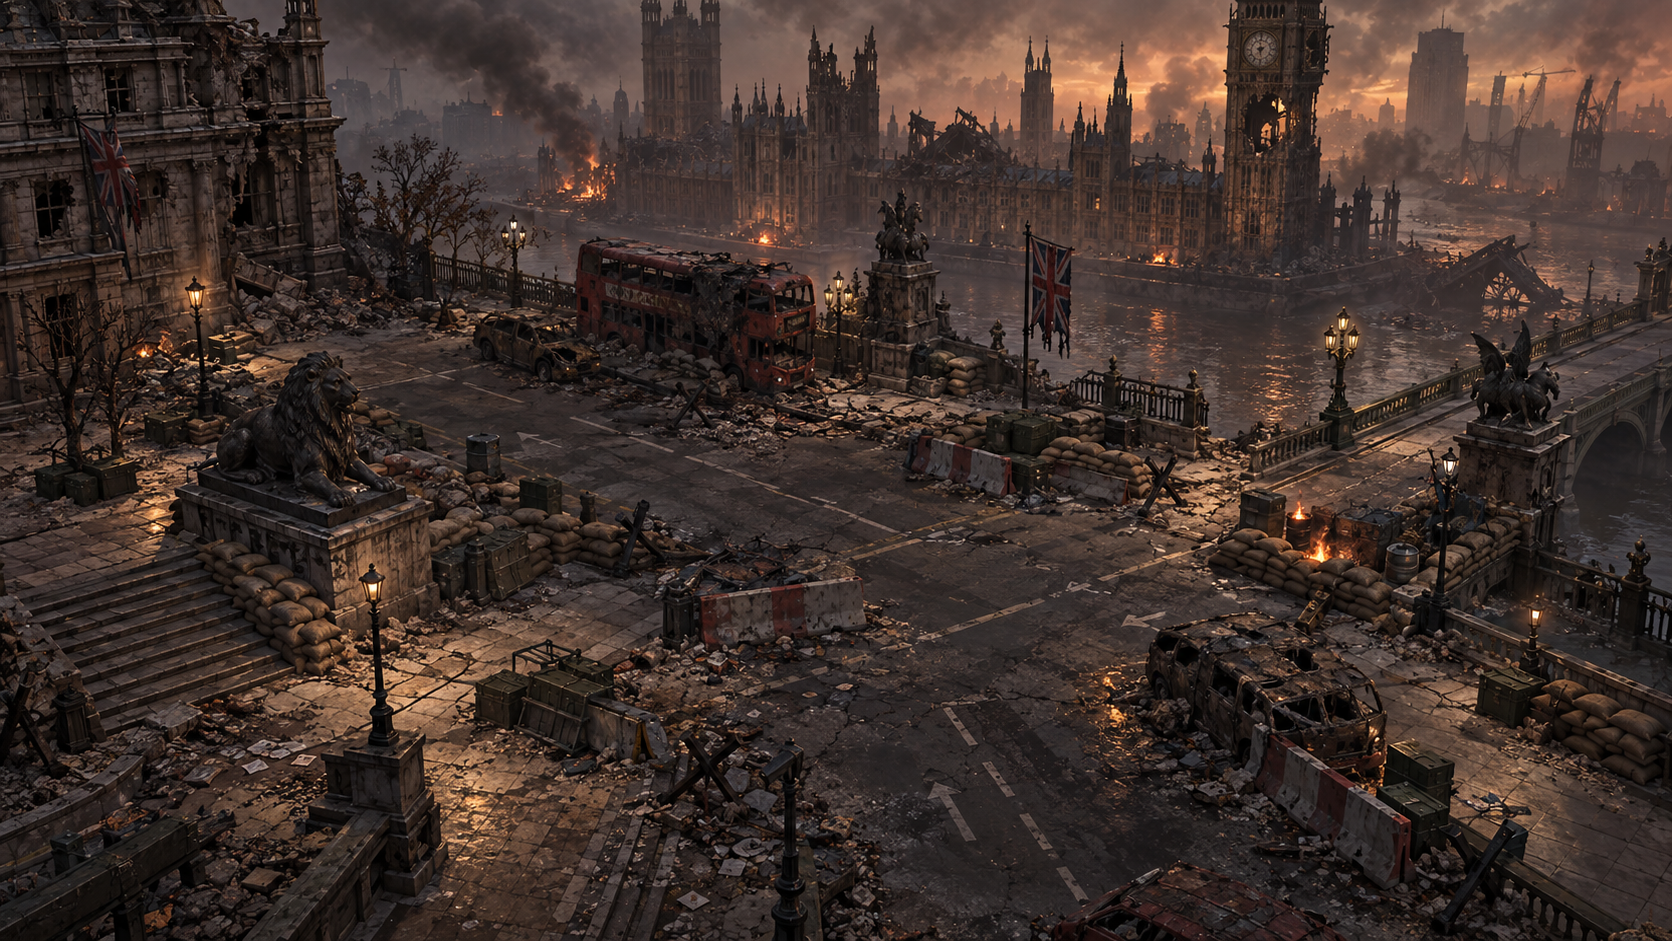
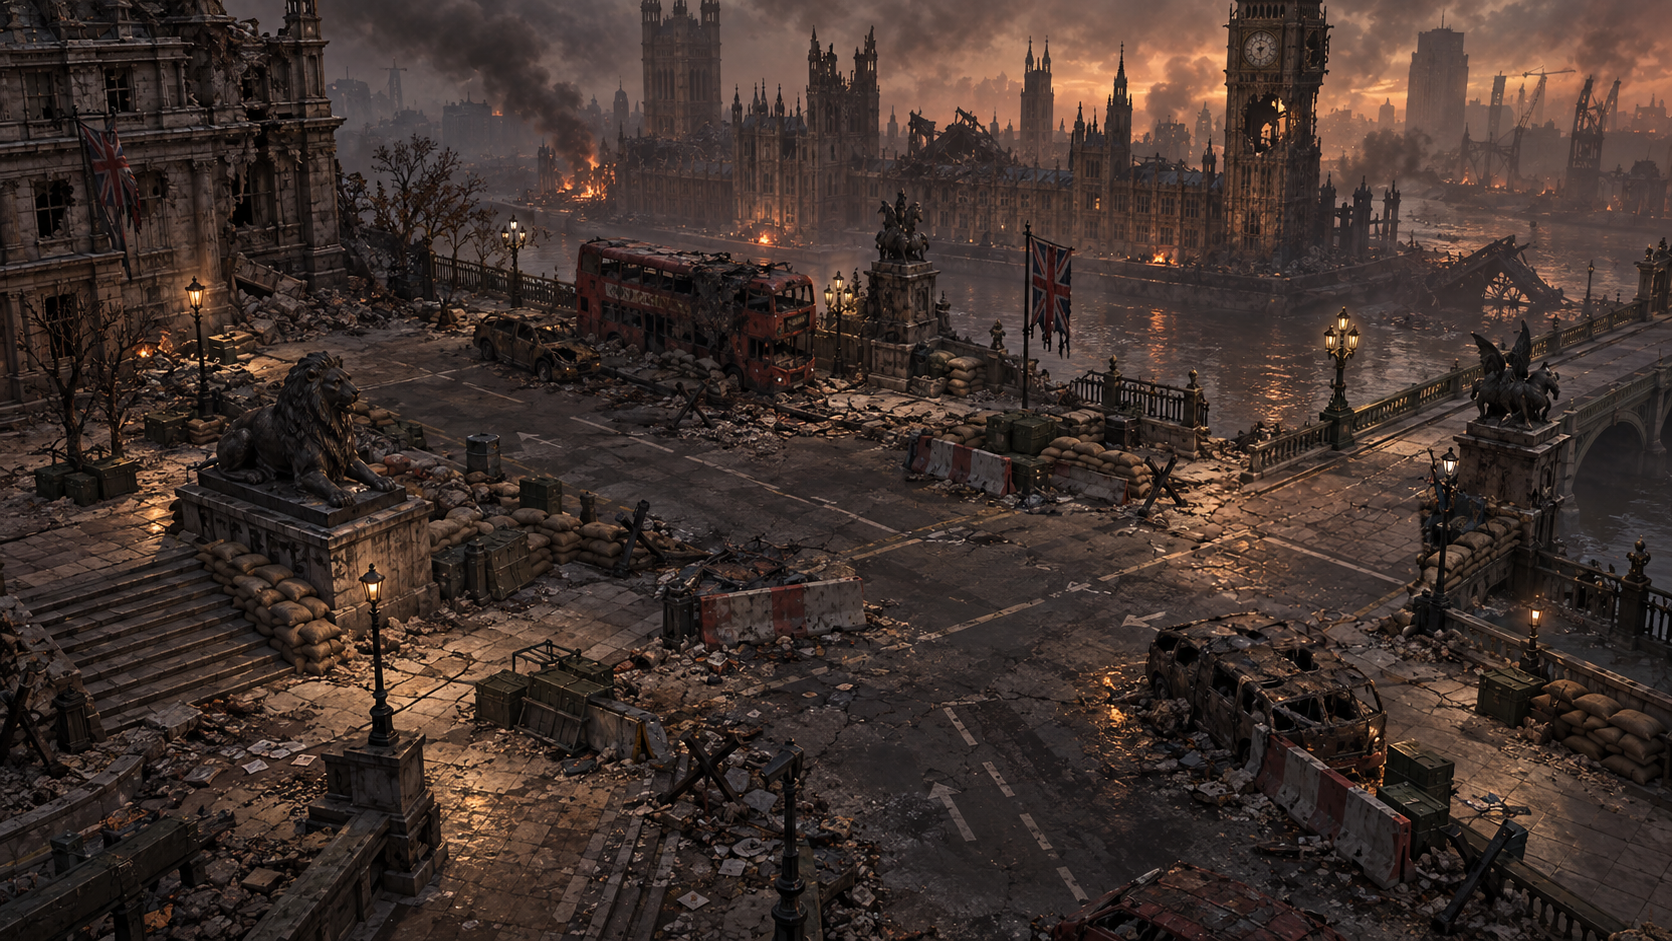
Clear painted bridge entrance and open matching road collision and occlusion

Changed region(s): [[0.7153, 0.4931, 0.8708, 0.678]]

diff --git a/Web/tests/atmosphere.test.js b/Web/tests/atmosphere.test.js
@@ -18,7 +18,7 @@ test('painting anchors survive a cropped camera; bounded three batches without t
   const {world,scene,fx}=fixture();
   world.camera.projectionMatrix.elements[0]*=2;world.camera.projectionMatrix.elements[12]=.4;
   fx.update(.016);
-  assert.equal(fx.stats().quads,ATMOSPHERE_BUDGET.quads);assert.equal(fx.stats().drawCalls,3);assert.equal(fx.stats().textureBytes,0);
+  assert.equal(fx.stats().quads,20);assert.equal(fx.stats().drawCalls,3);assert.equal(fx.stats().textureBytes,0);
   const smoke=scene.children[0].children.find(x=>x.name==='Atmosphere smoke');
   const positions=smoke.geometry.getAttribute('position');
   for(const [index,anchor] of [[0,WESTMINSTER_ATMOSPHERE[0]],[4*WESTMINSTER_ATMOSPHERE[0].smoke,WESTMINSTER_ATMOSPHERE[1]]]){
@@ -37,7 +37,7 @@ test('area exit disposes geometry while retaining shaders; final disposal releas
   const {world,scene,fx}=fixture();fx.update(.01);const old=[...scene.children[0].children];let released=0;
   for(const mesh of old){mesh.geometry.addEventListener('dispose',()=>released++);mesh.material.addEventListener('dispose',()=>released++);}
   world.areaId='unknown';fx.update(.01);assert.equal(scene.children.length,0);assert.equal(released,3);assert.equal(fx.stats().quads,0);
-  world.areaId='westminster';fx.update(.01);fx.update(.01);assert.equal(scene.children.length,1);assert.equal(fx.stats().quads,ATMOSPHERE_BUDGET.quads);
+  world.areaId='westminster';fx.update(.01);fx.update(.01);assert.equal(scene.children.length,1);assert.equal(fx.stats().quads,20);
   fx.dispose();fx.dispose();fx.update(.01);assert.equal(scene.children.length,0);assert.equal(released,6);assert.equal(fx.stats().disposed,true);
 });
 test('bus emits smoke only with its own tint; other smoke retains its accepted colour',()=>{
@@ -52,7 +52,7 @@ test('bus emits smoke only with its own tint; other smoke retains its accepted c
 });
 
 test('five seeded presets and active three-area budgets retain approved West parameters',()=>{
- assert.equal(Object.keys(ATMOSPHERE_PRESETS).length,5);const {fx,scene,world}=fixture();for(const [area,count,anchors]of [['westminster',28,6],['east',24,7],['south',21,6]]){const resolved=atmosphereForArea(area);assert.equal(resolved.length,anchors);assert.equal(new Set(resolved.map(a=>a.id)).size,anchors);assert.deepEqual(atmosphereForArea(area),resolved);assert(atmosphereBudget(area).quads<=28);world.areaId=area;fx.update(.01);assert.equal(scene.children.filter(o=>o.name==='London restrained atmosphere').length,1);assert.equal(fx.stats().quads,count);assert.equal(fx.stats().textureBytes,0);assert(fx.stats().drawCalls<=3);}
+ assert.equal(Object.keys(ATMOSPHERE_PRESETS).length,5);const {fx,scene,world}=fixture();for(const [area,count,anchors]of [['westminster',20,4],['east',24,7],['south',21,6]]){const resolved=atmosphereForArea(area);assert.equal(resolved.length,anchors);assert.equal(new Set(resolved.map(a=>a.id)).size,anchors);assert.deepEqual(atmosphereForArea(area),resolved);assert(atmosphereBudget(area).quads<=28);world.areaId=area;fx.update(.01);assert.equal(scene.children.filter(o=>o.name==='London restrained atmosphere').length,1);assert.equal(fx.stats().quads,count);assert.equal(fx.stats().textureBytes,0);assert(fx.stats().drawCalls<=3);}
  for(const [i,a]of atmosphereForArea('westminster').entries())for(const key of Object.keys(WESTMINSTER_ATMOSPHERE[i]))assert.deepEqual(a[key],WESTMINSTER_ATMOSPHERE[i][key]);fx.dispose();fx.dispose();assert.equal(scene.children.length,0);
 });
 

diff --git a/Web/src/area-definitions.js b/Web/src/area-definitions.js
@@ -1,3 +1,3 @@
 // Existing area metadata projected from Art packet7747543; creature and atmosphere adoption is separate.
 export const areaDefinitions=[{"id":"westminster","visibility":"public","layoutRef":"layout.westminster","backdropRef":"backdrop.westminster","audioRef":"audio.combat","entry":{"x":0.52,"y":0.78},"exits":[{"id":"exit.westminster.east","target":"east","condition":{"xMin":0.955,"yMin":0.28,"yMax":0.4},"entry":{"x":0.1,"y":0.72}},{"id":"exit.westminster.south","target":"south","condition":{"yMin":0.97,"xMin":0.49,"xMax":0.75},"entry":{"x":0.55,"y":0.29}}]},{"id":"east","visibility":"public","layoutRef":"layout.east","backdropRef":"backdrop.east","audioRef":"audio.combat","entry":{"x":0.1,"y":0.72},"exits":[{"id":"exit.east.westminster","target":"westminster","condition":{"xMax":0.04,"yMin":0.68,"yMax":0.81},"entry":{"x":0.9,"y":0.4}}]},{"id":"south","visibility":"public","layoutRef":"layout.south","backdropRef":"backdrop.south","audioRef":"audio.combat","entry":{"x":0.55,"y":0.29},"exits":[{"id":"exit.south.westminster","target":"westminster","condition":{"yMax":0.235,"xMin":0.49,"xMax":0.58},"entry":{"x":0.6,"y":0.92}}]}];
[2 lines of base64/hex data omitted]

diff --git a/Web/tests/bridge-mouth.test.js b/Web/tests/bridge-mouth.test.js
@@ -1,0 +1,26 @@
+import test from 'node:test';import assert from 'node:assert/strict';import fs from 'node:fs';
+import {createGeometry} from '../src/world-geometry.js';import {createBridgeSteering,bodyLineClear} from '../src/bridge-steering.js';
+import {createGame,stepGame} from '../src/combat.js';import {createHollowEncounter} from '../src/hollow-encounter.js';
+import {WESTMINSTER_ATMOSPHERE} from '../src/atmosphere-westminster.js';import {atmosphereForArea} from '../src/atmosphere-areas.js';
+const layout=JSON.parse(fs.readFileSync(new URL('../public/world/westminster/layout.json',import.meta.url))),geometry=createGeometry(layout);
+test('cleared pocket and enlarged mouth have legal player and resident-body room',()=>{
+ assert(!layout.blockers.some(b=>b.name==='Bridge mouth sandbag base'));
+ for(const radius of [.4,.6,1.09,1.54,1.59])assert(geometry.clear(geometry.ground({x:.75,y:.64}),radius));
+ assert(bodyLineClear(geometry,geometry.ground({x:.70625,y:.575}),geometry.ground({x:.770833333333,y:.516666666667}),.6));
+});
+test('actual Hollow pursuit crosses the widened mouth without illegal jumps or stalled oscillation',()=>{
+ const start=geometry.ground({x:.70,y:.66}),goal=geometry.ground({x:.75,y:.61}),world={areaId:'westminster',geometry,spawn:goal,layout,move:geometry.move,lineClear:geometry.lineClear};
+ const g=createGame(world,{pilot:'donor-knife',areaResidents:true,openingGroup:false,encounter:createHollowEncounter({rig:'hollow-scavenger',weapon:'knife',contactRig:'hero',bodyScale:1})});
+ const e=g.enemies.find(e=>e.rig==='hollow-scavenger');g.enemies=[e];e.pos={...start};e.home={...start};e.alerted=true;e.facing={x:0,z:1};assert(geometry.clear(e.pos,e.radius));let arrived=false;
+ for(let i=0;i<600;i++){const old={...e.pos};stepGame(g);assert(geometry.clear(e.pos,e.radius));assert(Math.hypot(e.pos.x-old.x,e.pos.z-old.z)<=e.moveSpeed/60+1e-8);if(Math.hypot(e.pos.x-goal.x,e.pos.z-goal.z)<e.radius+g.player.radius+.3){arrived=true;break;}}
+ assert(arrived,'Existing resident pursuit stalled at cleared mouth');
+});
+test('downstream animal body capacity still rejects an impossible whole-bridge route',()=>{
+ const goal=geometry.ground({x:.97,y:.34}),actor={pos:geometry.ground({x:.75,y:.64}),radius:1.59},steering=createBridgeSteering();
+ assert.equal(bodyLineClear(geometry,actor.pos,goal,actor.radius),false);assert.equal(steering.steer({world:{areaId:'westminster',geometry},actor,goal,time:0}),goal);
+ for(let i=0;i<120;i++){const target=steering.steer({world:{areaId:'westminster',geometry},actor,goal,time:i/60}),dx=target.x-actor.pos.x,dz=target.z-actor.pos.z,n=Math.hypot(dx,dz);const next=geometry.move(actor.pos,{x:dx/Math.max(n,1)*.03,z:dz/Math.max(n,1)*.03},actor.radius);assert(geometry.clear(next,actor.radius));actor.pos=next;}
+});
+test('removed painted fires have no live anchors; retained fire settings and seeds stay exact',()=>{
+ const ids=WESTMINSTER_ATMOSPHERE.map(a=>a.id);assert.deepEqual(ids,['bus-roof','tower-breach','parliament-base-fire','parliament-west-blaze']);assert.deepEqual(atmosphereForArea('westminster').map(a=>a.seed),[100,101,104,105]);
+ const mask=layout.masks.find(m=>m.name==='Foreground wreck');assert.equal(mask.points[1].y,.7);assert.equal(mask.points[2].y,.7);
+});

diff --git a/Web/src/atmosphere-areas.js b/Web/src/atmosphere-areas.js
@@ -11,7 +11,7 @@ export const ATMOSPHERE_PRESETS=Object.freeze({
 const placement=(id,preset,x,y,foot,seed,overrides={})=>Object.freeze({id,preset,x,y,foot:foot?Object.freeze(foot):null,depth:foot?null:80,seed,scale:1,intensity:1,...overrides});
 export const AREA_ATMOSPHERE=Object.freeze({
   // Exact061 footprints/numeric settings, no seeded variation of approved art.
-  westminster:Object.freeze(WESTMINSTER_ATMOSPHERE.map((a,i)=>Object.freeze({...a,preset:a.id==='bus-roof'?'light-smoulder':a.smoke?'fire-with-smoke':'small-fire',seed:100+i,scale:1,intensity:1,preserve:true}))),
+  westminster:Object.freeze(WESTMINSTER_ATMOSPHERE.map(a=>Object.freeze({...a,preset:a.id==='bus-roof'?'light-smoulder':a.smoke?'fire-with-smoke':'small-fire',seed:({'bus-roof':100,'tower-breach':101,'parliament-base-fire':104,'parliament-west-blaze':105})[a.id],scale:1,intensity:1,preserve:true}))),
   east:Object.freeze([
     placement('east-bus-smoulder','light-smoulder',.560,.275,{x:.56,y:.37},201,{width:.022,rise:.056,opacity:.30}),
     placement('east-near-drum','small-fire',.163,.625,{x:.17,y:.68},202),

diff --git a/Web/src/atmosphere-westminster.js b/Web/src/atmosphere-westminster.js
@@ -3,8 +3,6 @@
 export const WESTMINSTER_ATMOSPHERE = Object.freeze([
   Object.freeze({id:'bus-roof',x:.425,y:.287,foot:Object.freeze({x:.42,y:.415}),depth:null,width:.032,rise:.078,smoke:5,opacity:.75,smokeColor:Object.freeze([.68,.65,.60]),fireWidth:0,fireHeight:0,embers:0}),
   Object.freeze({id:'tower-breach',x:.751,y:.159,depth:80,width:.012,rise:.047,smoke:2,opacity:.16,fireWidth:.009,fireHeight:.035,embers:2}),
-  Object.freeze({id:'riverside-wreck-fire',x:.791,y:.594,foot:Object.freeze({x:.80,y:.67}),depth:null,width:.021,rise:.08,smoke:3,opacity:.22,fireWidth:.011,fireHeight:.046,embers:2}),
-  Object.freeze({id:'riverside-fire-drum',x:.777,y:.550,foot:Object.freeze({x:.80,y:.67}),depth:null,width:.01,rise:.035,smoke:0,opacity:0,fireWidth:.008,fireHeight:.030,embers:1}),
   Object.freeze({id:'parliament-base-fire',x:.452,y:.259,depth:80,width:.012,rise:.032,smoke:2,opacity:.13,fireWidth:.011,fireHeight:.029,embers:1}),
   Object.freeze({id:'parliament-west-blaze',x:.348,y:.215,depth:80,width:.017,rise:.06,smoke:2,opacity:.18,fireWidth:.011,fireHeight:.043,embers:3})
 ]);
